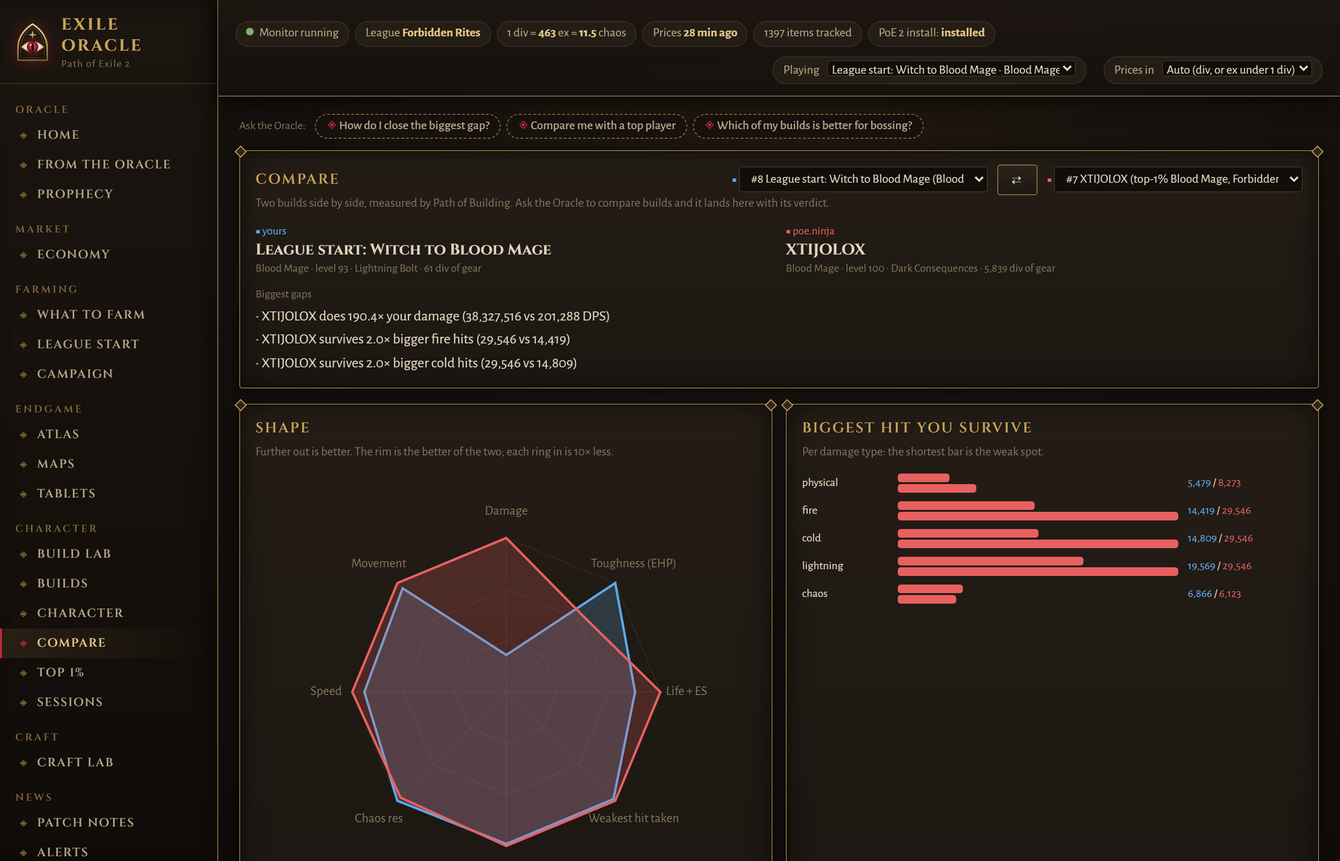
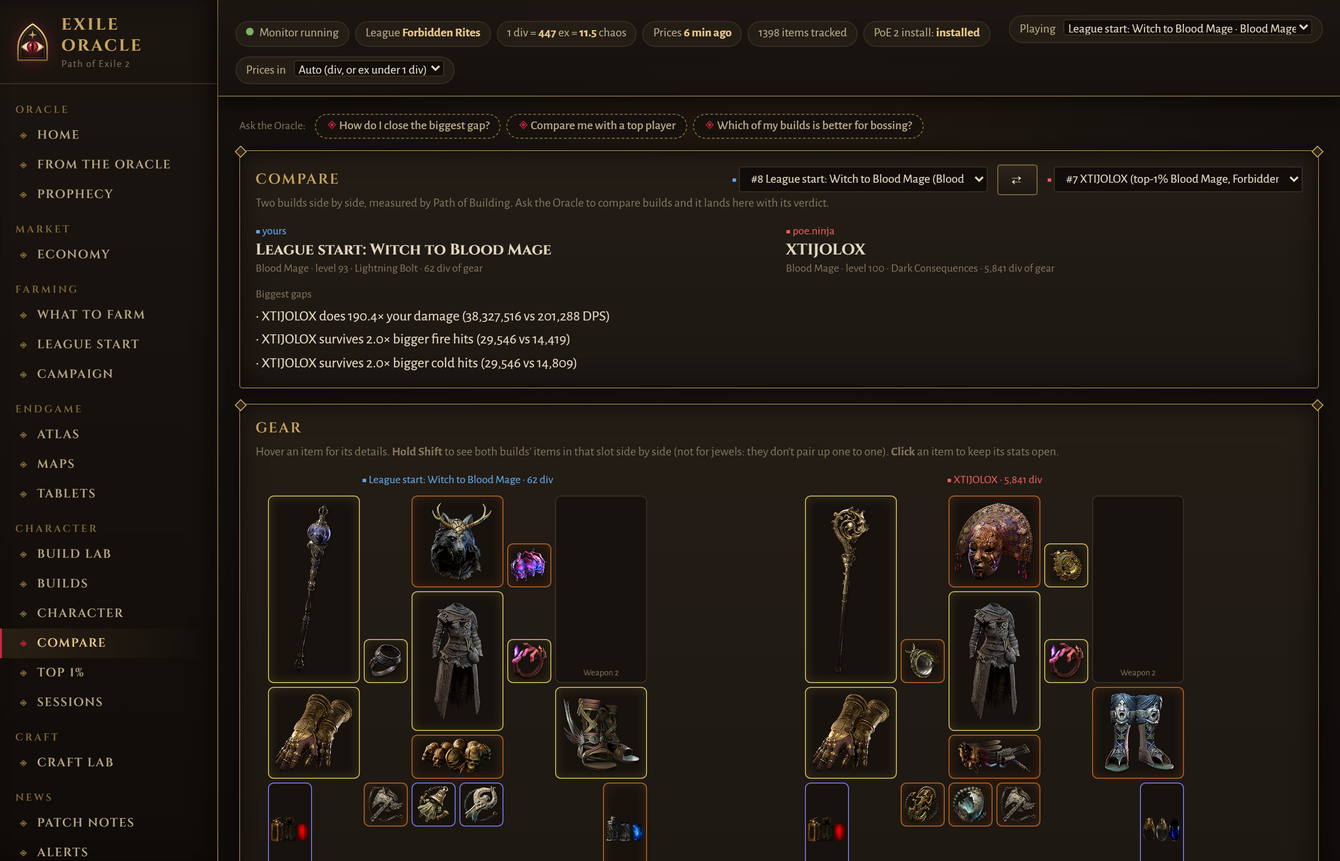
Compare: gear first in the game's equipment layout (hold Shift = both items side by side, click = keep stats open), then skills; Character page Build check (weapon set, main skill, versions, automatic fixes; tune + reset); click to pin item stats

diff --git a/dashboard/index.html b/dashboard/index.html
@@ -386,6 +386,10 @@ input[type=checkbox] { accent-color: var(--eo-blood-hi); }
 .cmpgear .it img { width: 34px; height: 34px; object-fit: contain; }
 .gemtag { display: inline-block; padding: 1px 7px; margin: 2px; border-radius: 3px; background: #241c14; font-size: 12px; }
 .gemtag.only { outline: 1px solid currentColor; }
+.pintip { position: fixed; z-index: 60; max-height: 85vh; overflow-y: auto; filter: drop-shadow(0 6px 18px #000c); }
+.pintip .pinx { position: sticky; top: 0; float: right; margin: 2px 2px -26px 0; z-index: 2; width: 24px; height: 24px; border-radius: 3px;
+  border: 1px solid #8a6f3e; background: #1c1712; color: #e2d6bf; cursor: pointer; font-size: 13px; line-height: 1; }
+.pintip .pinx:hover { border-color: #c8283c; color: #fff; }
 .mmlvl { font: 700 10px var(--eo-display); letter-spacing: .1em; text-transform: uppercase; padding: 1px 7px; border-radius: 999px; border: 1px solid; }
 .mmlvl.deadly { color: #ff7b7b; border-color: #7a2a2a; } .mmlvl.risky { color: #e9c46a; border-color: #6b5a2a; } .mmlvl.fine { color: var(--eo-good); border-color: #3f5f33; }
 #mmtable td { vertical-align: top; } #mmtable .tiers { font-size: 12px; color: var(--eo-muted); }
@@ -631,6 +635,8 @@ table.up td, table.up th { padding: 5px 7px; } table.up .pos { color: var(--eo-g
       <label class="small"><span class="cmpB">■</span> <select class="crin" id="cmpb" style="max-width:260px"></select></label></div>
       <div class="sub">Two builds side by side, measured by Path of Building. Ask the Oracle to compare builds and it lands here with its verdict.</div>
       <div id="cmphead" style="margin-top:10px"></div></div>
+    <div class="card"><h2>Gear</h2><div class="sub">Hover an item for its details. <b>Hold Shift</b> to see both builds' items in that slot side by side (not for jewels: they don't pair up one to one). <b>Click</b> an item to keep its stats open.</div><div id="cmpgear"></div></div>
+    <div class="card"><h2>Skills</h2><div id="cmpskills"></div></div>
     <div class="grid2">
       <div class="card"><h2>Shape</h2><div class="sub">Further out is better. The rim is the better of the two; each ring in is 10× less.</div><div id="cmpradar"></div></div>
       <div class="card"><h2>Biggest hit you survive</h2><div class="sub">Per damage type: the shortest bar is the weak spot.</div><div id="cmphits"></div></div>
@@ -641,8 +647,6 @@ table.up td, table.up th { padding: 5px 7px; } table.up .pos { color: var(--eo-g
       <div class="lab-tree" id="cmptree" style="height:520px"><div class="zbtn"><button data-z="1.4">+</button><button data-z="0.7">−</button><button data-z="fit">⤢</button></div>
         <div class="legend">hover a node for its name · Ctrl + scroll to zoom · drag to move</div></div>
       <div id="cmpkeys" class="small" style="margin-top:8px"></div></div>
-    <div class="card"><h2>Gear, slot by slot</h2><div id="cmpgear"></div></div>
-    <div class="card"><h2>Skills</h2><div id="cmpskills"></div></div>
   </section>
   <section id="top1">
     <div class="card"><h2>Top 1% check</h2><div class="sub">Your character against the top 1% of your ascendancy on poe.ninja: level, damage, toughness and gear value. Benchmarks are read on request (ask the Oracle to refresh them).</div>
@@ -881,9 +885,24 @@ function showTip(e, html) { tip.innerHTML = html; tip.style.display = 'block';
   const z = +document.body.style.zoom || 1;   // the tip lives inside the zoomed body: page pixels / zoom
   const x = Math.min(e.clientX + 14, innerWidth - tip.offsetWidth * z - 8) / z; tip.style.left = x + 'px'; tip.style.top = (e.clientY + 14) / z + 'px'; }
 function hideTip() { tip.style.display = 'none'; }
+// click an item: its stats stay open in a pinned panel until its ✕ is pressed (several can be open at once)
+function pinTip(e, html) {
+  if (!html) return;
+  const z = +document.body.style.zoom || 1, n = document.querySelectorAll('.pintip').length;
+  const p = document.createElement('div');
+  p.className = 'pintip';
+  p.innerHTML = `<button class="pinx" title="Close">✕</button>${html}`;
+  document.body.appendChild(p);
+  const x = Math.min(e.clientX + 14 + n * 18, innerWidth - p.offsetWidth * z - 8) / z;
+  const y = Math.min(e.clientY + 14 + n * 18, innerHeight - p.offsetHeight * z - 8) / z;
+  p.style.left = Math.max(8, x) + 'px'; p.style.top = Math.max(8, y) + 'px';
+  p.querySelector('.pinx').onclick = () => p.remove();
+  hideTip();
+}
 
 // ---------- tabs ----------
 document.querySelectorAll('nav button').forEach(b => b.onclick = () => {
+  document.querySelectorAll('.pintip').forEach(p => p.remove());   // pinned item panels belong to the page they came from
   document.querySelectorAll('nav button').forEach(x => x.classList.toggle('on', x === b));
   document.querySelectorAll('section').forEach(s => s.classList.toggle('on', s.id === b.dataset.tab));
   setTimeout(() => pageAsks(b.dataset.tab));   // after the page's scripts have all loaded
@@ -1447,10 +1466,38 @@ async function loadCompare(a, b) {
   const box = $('#cmptree'); const old = box.querySelector('svg'); if (old) old.remove();
   await drawTree({ tree: { version: r.tree.version, allocated: [...r.tree.both, ...r.tree.only_a, ...r.tree.only_b], jewel_nodes: [], only_a: r.tree.only_a, only_b: r.tree.only_b } }, box);
   $('#cmpkeys').innerHTML = `<b>Keystones:</b> <span class="cmpA">${r.keystones.a.map(esc).join(', ') || 'none'}</span> · <span class="cmpB">${r.keystones.b.map(esc).join(', ') || 'none'}</span>`;
-  const it = (x, diff) => !x ? '<div class="it muted small">empty</div>' : `<div class="it${diff ? ' diff' : ''}">${x.icon ? `<img src="${ic(x.icon, 34)}" alt="">` : `<img src="/artfind?n=${encodeURIComponent(x.name || '')}&b=${encodeURIComponent(x.base || '')}" alt="" onerror="this.remove()">`}
-    <div><div class="small ${RCOL[x.rarity] || ''}"><b>${esc(x.name || x.base || '')}</b></div><div class="small muted">${esc(x.base && x.base !== x.name ? x.base : '')}${x.value_div != null ? ` · ${x.value_div < 1 ? '<1' : Math.round(x.value_div)} div` : ''}</div></div></div>`;
-  $('#cmpgear').innerHTML = `<div class="cmpgear"><div class="small cmpA">${nm(r.a)}</div><div></div><div class="small cmpB">${nm(r.b)}</div>` +
-    r.gear.map(g => `${it(g.a, !g.same)}<div class="small muted" style="text-align:center">${esc(g.slot)}</div>${it(g.b, !g.same)}`).join('') + '</div>';
+  // gear: the Character page's Equipment layout, both builds side by side (hover an item for its details)
+  const ea = invBlock(r.equip.a, 'a'), eb = invBlock(r.equip.b, 'b');
+  const worth = x => x.value_div != null ? ` · ${Math.round(x.value_div).toLocaleString()} div` : '';
+  $('#cmpgear').innerHTML = `<div style="display:flex;flex-wrap:wrap;gap:16px 28px;justify-content:space-around"><div style="flex:0 0 auto"><div class="small cmpA" style="text-align:center">■ ${nm(r.a)}${worth(r.a)}</div>${ea.html}</div>
+    <div style="flex:0 0 auto"><div class="small cmpB" style="text-align:center">■ ${nm(r.b)}${worth(r.b)}</div>${eb.html}</div></div>`;
+  const allItems = Object.assign({}, ea.items, eb.items);
+  // the item in the same slot on the other build (gear only: jewels don't pair up one to one)
+  const pair = key => {
+    const it = allItems[key]; if (!it || !it.slot || key.includes('j')) return null;
+    const other = key[0] === 'a' ? r.equip.b : r.equip.a;
+    const want = it.slot.replace(' Swap', ''), mine = it.slot.endsWith('Swap');
+    return other.gear.find(g => g.slot === it.slot) || other.gear.find(g => g.slot.replace(' Swap', '') === want && g.slot.endsWith('Swap') !== mine) || 'empty';
+  };
+  const cmpTip = (key, shift) => {
+    const it = allItems[key]; if (!it) return '';
+    const p = shift ? pair(key) : null;
+    if (!p) return itemTip(it) + (key.includes('j') || !shift ? (key.includes('j') ? '' : '<div class="small" style="margin-top:4px;text-align:center;background:#0b0908e6;border:1px solid #3a2e22;border-radius:3px;padding:2px 6px;color:#c9a45c">hold Shift to compare</div>') : '');
+    const mineFirst = key[0] === 'a';
+    const col = (x, who, cls) => `<div><div class="small ${cls}" style="text-align:center;margin-bottom:3px">■ ${who}</div>${x === 'empty' ? '<div class="ptip"><div class="hd">empty slot</div></div>' : itemTip(x)}</div>`;
+    const A = col(mineFirst ? it : p, nm(r.a), 'cmpA'), B = col(mineFirst ? p : it, nm(r.b), 'cmpB');
+    return `<div style="display:flex;gap:8px;align-items:flex-start">${A}${B}</div>`;
+  };
+  let hov = null;
+  $('#cmpgear').querySelectorAll('[data-tip]').forEach(el => {
+    el.onmousemove = e => { hov = { e, key: el.dataset.tip }; tip.style.padding = '0'; tip.style.background = 'transparent'; tip.style.border = '0'; showTip(e, cmpTip(el.dataset.tip, e.shiftKey)); };
+    el.onmouseleave = () => { hov = null; hideTip(); tip.style.padding = ''; tip.style.background = ''; tip.style.border = ''; };
+    el.style.cursor = 'pointer';
+    el.onclick = e => { e.stopPropagation(); pinTip(e, cmpTip(el.dataset.tip, e.shiftKey).replace(/<div class="small" style="margin-top:4px;text-align:center;background[^>]*>hold Shift to compare<\/div>/, '')); };
+  });
+  const reshow = e => { if (hov && (e.key === 'Shift')) showTip(hov.e, cmpTip(hov.key, e.type === 'keydown')); };
+  document.removeEventListener('keydown', window._cmpShift || (() => {})); document.removeEventListener('keyup', window._cmpShift || (() => {}));
+  window._cmpShift = reshow; document.addEventListener('keydown', reshow); document.addEventListener('keyup', reshow);
   const onlyA = new Set(r.skills.only_a), onlyB = new Set(r.skills.only_b);
   const col = (list, only, cls) => list.map(g => `<div style="margin:6px 0">${g.skills.map(s => `<span class="gemtag ${only.has(s) ? 'only ' + cls : ''}"><b>${esc(s)}</b></span>`).join('')}
     ${g.supports.map(s => `<span class="gemtag ${only.has(s) ? 'only ' + cls : ''}">${esc(s)}</span>`).join('')}</div>`).join('') || '<div class="muted small">none</div>';
@@ -2031,6 +2078,8 @@ function itemTip(it) {
 }
 function bindTips(root, getHtml) {
   root.querySelectorAll('[data-tip]').forEach(el => {
+    el.style.cursor = 'pointer';
+    el.onclick = e => { e.stopPropagation(); pinTip(e, getHtml(el.dataset.tip)); };
     el.onmousemove = e => { tip.style.padding = '0'; tip.style.background = 'transparent'; tip.style.border = '0'; showTip(e, getHtml(el.dataset.tip)); };
     el.onmouseleave = () => { hideTip(); tip.style.padding = ''; tip.style.background = ''; tip.style.border = ''; };
   });
@@ -2039,6 +2088,41 @@ const INV = { 'Weapon 1': [1, 1, 2, 4], 'Helmet': [4, 1, 2, 2], 'Weapon 2': [7, 
   'Body Armour': [4, 3, 2, 3], 'Ring 1': [3, 4, 1, 1], 'Ring 2': [6, 4, 1, 1], 'Gloves': [1, 5, 2, 2],
   'Belt': [4, 6, 2, 1], 'Boots': [7, 5, 2, 2], 'Charm 1': [3, 7, 1, 1], 'Charm 2': [4, 7, 1, 1], 'Charm 3': [5, 7, 1, 1],
   'Flask 1': [1, 7, 1, 2], 'Flask 2': [8, 7, 1, 2] };
+// the Equipment layout (also used twice on the Compare page). pre = a key prefix so two can share one page.
+function invBlock(c, pre) {
+  pre = pre || '';
+  const items = {}; c.gear.forEach((g, i) => items[pre + 'g' + i] = g); (c.jewels || []).forEach((j, i) => items[pre + 'j' + i] = j);
+  const bySlot = {}; c.gear.forEach((g, i) => bySlot[g.slot] = pre + 'g' + i);
+  const cell = (key, it, label) => `<div class="slot ${it ? RCOL[it.rarity] : ''}" ${it ? `data-tip="${key}"` : ''}>${it && it.art ? `<img src="${artSrc(it.art)}" alt="${esc(it.name)}">` : ''}${!it ? `<span class="lbl">${esc(label)}</span>` : ''}</div>`;
+  const swap = c.gear.filter(g => g.slot.endsWith('Swap'));
+  const wset = (!bySlot['Weapon 1'] && !bySlot['Weapon 2'] && swap.length) ? 2 : 1;
+  const inv = Object.entries(INV).map(([slot, [cx, cy, w, h]]) => {
+    const weapon = /^Weapon [12]$/.test(slot);
+    const key = weapon && wset === 2 ? bySlot[slot + ' Swap'] : bySlot[slot]; const it = key ? items[key] : null;
+    return `<div style="grid-column:${cx} / span ${w};grid-row:${cy} / span ${h};display:grid;position:relative">${cell(key, it, slot)}${weapon && wset === 2 && it ? '<span class="pill" style="position:absolute;left:4px;bottom:4px;font-size:10px">set II</span>' : ''}</div>`;
+  }).join('');
+  const jew = (c.jewels || []).map((j, i) => cell(pre + 'j' + i, j, 'Jewel')).join('');
+  return { items, html: `<div class="inv">${inv}</div>${jew ? `<div class="small muted" style="text-align:center;margin-top:6px">Jewels</div><div class="jrow">${jew}</div>` : ''}` };
+}
+// "Build check" on the Character page: how Path of Building measures this build, and changing it
+async function loadBuildCheck(c, box) {
+  const s = await get('/api/buildcheck?id=' + c.id), body = box.querySelector('.bcbody');
+  const groups = (c.skills || []).filter(g => g.gems && g.gems.some(x => !x.support));
+  const gname = g => esc(g.gems.filter(x => !x.support).map(x => x.name).join(' + '));
+  const setTxt = n => (n === 1 ? s.set1 : s.set2) ? 'has weapons' : 'empty';
+  const fixed = (c.warnings || []).filter(w => w.startsWith('Fixed automatically'));
+  body.innerHTML = `<div style="display:grid;grid-template-columns:auto 1fr;gap:6px 12px;align-items:center">
+    <span class="muted">Weapon set</span><span><select class="crin" id="bcws"><option value="0">automatic${fixed.length ? ' (set II: set I is empty)' : ''}</option><option value="1">I (${setTxt(1)})</option><option value="2">II (${setTxt(2)})</option></select></span>
+    <span class="muted">Main skill</span><span><select class="crin" id="bcmg">${groups.map(g => `<option value="${g.index}"${g.index === c.main_group ? ' selected' : ''}>${gname(g)}${g.dps ? ' · ' + g.dps.toLocaleString() + ' DPS' : ''}</option>`).join('')}</select></span>
+    <span class="muted">Measured by</span><span>Path of Building ${esc(s.pob_version || '?')} · tree ${esc(c.tree && c.tree.version || '?')}</span>
+    <span class="muted">Status</span><span>${s.tuned ? '<b style="color:var(--eo-gold)">changed by you</b> <button class="btn" id="bcreset" style="padding:1px 8px;font-size:11px">Reset to as imported</button>' : 'as imported'}${fixed.length ? ' · ' + fixed.length + ' automatic fix' : ''}</span></div>
+    <div class="muted" style="margin-top:6px">Changes are saved with the build and used everywhere (Build Lab, Compare, Top 1%). Still wrong? Ask the Oracle: "check why my numbers look off".</div>`;
+  const remeasure = async payload => { body.innerHTML = '<span class="spin"></span> Path of Building is measuring again…'; await post(payload ? '/api/buildcheck/tune' : '/api/buildcheck/reset', Object.assign({ id: c.id }, payload || {})); const fresh = await get('/api/character?id=' + c.id); fresh._openCheck = true; renderCharacter(fresh, CHAR_LAST.el); };
+  if (s.tune && s.tune.weapon_set) body.querySelector('#bcws').value = s.tune.weapon_set;
+  body.querySelector('#bcws').onchange = e => remeasure({ weapon_set: +e.target.value });
+  body.querySelector('#bcmg').onchange = e => remeasure({ main_group: +e.target.value });
+  const rb = body.querySelector('#bcreset'); if (rb) rb.onclick = () => remeasure(null);
+}
 let CHAR_LAST = null;
 document.addEventListener('click', e => {   // weapon set I / II toggle on the Character page
   const b = e.target.closest('[data-wset]'); if (!b || !CHAR_LAST) return;
@@ -2071,7 +2155,8 @@ function renderCharacter(c, el) {
     <div class="card"><div class="char-head"><h2>${esc(c.label)}</h2><span class="muted">Level ${esc(c.level)} ${esc(c.ascendancy || c.class)}</span>
       <span class="pill">${esc(c.league || '')}</span><span class="pill">${esc(c.owner)}</span>
       <span class="muted">Main skill <b style="color:var(--text-primary)">${esc(c.main_skill)}</b> · ${c.dps.toLocaleString()} DPS</span></div>
-      ${(c.warnings || []).map(w => w.startsWith('Fixed automatically') ? `<div class="small" style="color:var(--eo-good)">✔ ${esc(w)}</div>` : `<div class="small" style="color:var(--warning)">⚠ ${esc(w)}</div>`).join('')}</div>
+      ${(c.warnings || []).map(w => w.startsWith('Fixed automatically') ? `<div class="small" style="color:var(--eo-good)">✔ ${esc(w)}</div>` : `<div class="small" style="color:var(--warning)">⚠ ${esc(w)}</div>`).join('')}
+      <details class="bcheck" style="margin-top:8px"${c._openCheck ? ' open' : ''}><summary class="small"><b>Build check</b> <span class="muted">(numbers look wrong? see how this build is measured and fix it)</span></summary><div class="bcbody small" style="margin-top:6px">loading…</div></details></div>
     <div class="char-grid">
       <div>
         <div class="card"><h2>Equipment</h2><div class="inv">${inv}</div>
@@ -2094,6 +2179,7 @@ function renderCharacter(c, el) {
       </div>
     </div>`;
   bindTips(el, key => itemTip(items[key]));
+  const bc = el.querySelector('.bcheck'); if (bc) { bc.ontoggle = () => { if (bc.open) loadBuildCheck(c, bc); }; if (bc.open) loadBuildCheck(c, bc); }
   drawTree(c, document.getElementById('treebox'));
 }
 function valueCard(c) {

diff --git a/poe2kit/vault.py b/poe2kit/vault.py
@@ -212,7 +212,7 @@ def delete(con, build_id):
     if not row:
         return {'ok': False, 'why': 'No such build.'}
     con.execute('DELETE FROM build WHERE id=?', (bid,))
-    for k in (f'lab:cards:{bid}', f'planner:{bid}'):
+    for k in (f'lab:cards:{bid}', f'planner:{bid}', f'tune:{bid}', f'tune:orig:{bid}'):
         con.execute('DELETE FROM kv WHERE k=?', (k,))
     con.execute('DELETE FROM kv WHERE k LIKE ?', (f'lab:curves:{bid}:%',))
     con.commit()
@@ -220,3 +220,70 @@ def delete(con, build_id):
     if str(s.get('active_build') or '') == str(bid):
         config.save_settings({'active_build': None})
     return {'ok': True, 'deleted': bid, 'label': row['label']}
+
+
+# ---------------- build check: how a build is measured, and fixing it (the author, 2026-11-21) ----------------
+
+def check(con, build_id):
+    """What Path of Building is told about this build: weapon sets, which one is used, the main skill, and whether it
+    was tuned. (The measured numbers and warnings come from the Character page itself.)"""
+    r = con.execute('SELECT pob_code FROM build WHERE id=?', (int(build_id),)).fetchone()
+    if not r:
+        return {'ok': False, 'why': 'No such build.'}
+    xml = decode(r['pob_code'])
+
+    def item(slot):
+        m = re.search(r'<Slot [^>]*itemId="(\d+)"[^>]*name="%s"' % re.escape(slot), xml)
+        return bool(m and m.group(1) != '0')
+    root = ET.fromstring(xml)
+    b = root.find('Build')
+    items = root.find('Items')
+    use2 = (items.get('useSecondWeaponSet') if items is not None else None) == 'true'
+    orig = db.kv_get(con, f'tune:orig:{int(build_id)}')
+    return {'ok': True, 'set1': item('Weapon 1') or item('Weapon 2'), 'set2': item('Weapon 1 Swap') or item('Weapon 2 Swap'),
+            'uses_set': 2 if use2 else 1, 'main_group': int(b.get('mainSocketGroup') or 1) if b is not None else 1,
+            'tuned': bool(orig), 'tune': json.loads(db.kv_get(con, f'tune:{int(build_id)}') or '{}')}
+
+
+def tune(con, build_id, weapon_set=None, main_group=None):
+    """Change how a build is measured: weapon set 1 / 2 (None = leave it to the auto-fixes) and the main skill group.
+    The build as it was imported is kept, so reset() brings it back."""
+    bid = int(build_id)
+    r = con.execute('SELECT pob_code FROM build WHERE id=?', (bid,)).fetchone()
+    if not r:
+        return {'ok': False, 'why': 'No such build.'}
+    if not db.kv_get(con, f'tune:orig:{bid}'):
+        db.kv_set(con, f'tune:orig:{bid}', r['pob_code'])
+    xml = decode(db.kv_get(con, f'tune:orig:{bid}'))
+    cur = json.loads(db.kv_get(con, f'tune:{bid}') or '{}')
+    if weapon_set is not None:
+        cur['weapon_set'] = int(weapon_set) if int(weapon_set) in (1, 2) else None
+    if main_group is not None:
+        cur['main_group'] = int(main_group) if int(main_group) > 0 else None
+    ws, mg = cur.get('weapon_set'), cur.get('main_group')
+    if ws:
+        val = 'true' if ws == 2 else 'nil'
+        xml = re.sub(r'(<(?:Items|ItemSet) [^>]*?)useSecondWeaponSet="[^"]*"', r'\1useSecondWeaponSet="%s"' % val, xml)
+        if 'useSecondWeaponSet=' not in xml:
+            xml = xml.replace('<Items ', f'<Items useSecondWeaponSet="{val}" ', 1)
+    if mg:
+        xml = re.sub(r'(<Build [^>]*?)mainSocketGroup="\d+"', r'\g<1>mainSocketGroup="%d"' % mg, xml, count=1)
+    code = encode(xml)
+    s = summarize(xml)
+    con.execute('UPDATE build SET pob_code=?, main_skill=? WHERE id=?', (code, s.get('main_skill'), bid))
+    db.kv_set(con, f'tune:{bid}', json.dumps(cur))
+    con.commit()
+    return dict(check(con, bid), main_skill=s.get('main_skill'))
+
+
+def reset(con, build_id):
+    """Back to the build exactly as it was imported."""
+    bid = int(build_id)
+    orig = db.kv_get(con, f'tune:orig:{bid}')
+    if not orig:
+        return check(con, bid)
+    s = summarize(decode(orig))
+    con.execute('UPDATE build SET pob_code=?, main_skill=? WHERE id=?', (orig, s.get('main_skill'), bid))
+    con.execute('DELETE FROM kv WHERE k IN (?, ?)', (f'tune:orig:{bid}', f'tune:{bid}'))
+    con.commit()
+    return check(con, bid)

diff --git a/smoke_test.py b/smoke_test.py
@@ -347,6 +347,29 @@ def weaponset_check():
           'empty weapon set I: measured with set II')
 
 
+def buildcheck_check():
+    """Build check: tune the weapon set and main skill (saved with the build), then reset to as imported."""
+    from poe2kit import vault, db
+    xml = ('<PathOfBuilding2><Build level="90" className="Witch" ascendClassName="Blood Mage" mainSocketGroup="1"></Build>'
+           '<Items activeItemSet="1" useSecondWeaponSet="nil"><ItemSet id="1" useSecondWeaponSet="nil">'
+           '<Slot itemId="0" name="Weapon 1"/><Slot itemId="7" name="Weapon 1 Swap"/></ItemSet></Items>'
+           '<Skills><SkillSet id="1"><Skill enabled="true"><Gem nameSpec="Comet" enabled="true"/></Skill>'
+           '<Skill enabled="true"><Gem nameSpec="Frost Wall" enabled="true"/></Skill></SkillSet></Skills><Tree></Tree></PathOfBuilding2>')
+    con = db.connect()
+    bid = vault.from_paste(con, vault.encode(xml), 'Check test')['id']
+    before = con.execute('SELECT pob_code FROM build WHERE id=?', (bid,)).fetchone()[0]
+    c0 = vault.check(con, bid)
+    c1 = vault.tune(con, bid, weapon_set=2, main_group=2)
+    tuned = vault.decode(con.execute('SELECT pob_code FROM build WHERE id=?', (bid,)).fetchone()[0])
+    c2 = vault.reset(con, bid)
+    after = con.execute('SELECT pob_code FROM build WHERE id=?', (bid,)).fetchone()[0]
+    vault.delete(con, bid)
+    con.close()
+    check(not c0['set1'] and c0['set2'] and c1['tuned'] and c1['uses_set'] == 2 and c1['main_group'] == 2
+          and 'mainSocketGroup="2"' in tuned and not c2['tuned'] and after == before,
+          'Build check: tune weapon set + main skill, reset to as imported')
+
+
 def campaign_check():
     """R16 / R21: the rush route maps onto the game's zones, and a zone gives a route card."""
     from poe2kit import campaign
@@ -457,6 +480,7 @@ if __name__ == '__main__':
     patchwatch_check()
     vault_paste_check()
     weaponset_check()
+    buildcheck_check()
     mcp()
     if '--pob' in sys.argv:
         pob_part()

diff --git a/monitor.py b/monitor.py
@@ -412,6 +412,9 @@ def api(path, q):
             if not a or not b:
                 return {'error': 'Save two builds in the vault to compare them (Builds page: paste a build).'}
             return compare.compare_view(con, a, int(b))
+        if path == '/api/buildcheck':   # Character page: how this build is measured
+            from poe2kit import vault, pob
+            return dict(vault.check(con, int(q.get('id') or 0)), pob_version=pob.version())
         if path == '/api/campaign':   # R16: campaign rush guide + checklist + where you are now
             from poe2kit import campaign
             return campaign.guide(con)
@@ -779,6 +782,14 @@ class Handler(http.server.BaseHTTPRequestHandler):
                     c.execute('DELETE FROM alert WHERE seen=1')
                     c.commit()
                     data = {'ok': True}
+                finally:
+                    c.close()
+            elif u.path in ('/api/buildcheck/tune', '/api/buildcheck/reset'):   # fix how a build is measured
+                from poe2kit import vault, db as _db
+                c = _db.connect()
+                try:
+                    data = vault.tune(c, body.get('id'), body.get('weapon_set'), body.get('main_group')) \
+                        if u.path.endswith('tune') else vault.reset(c, body.get('id'))
                 finally:
                     c.close()
             elif u.path in ('/api/vault/paste', '/api/vault/delete'):   # Builds page: paste a build / delete one

diff --git a/poe2kit/pob.py b/poe2kit/pob.py
@@ -124,6 +124,7 @@ def filled_weapon_set(xml_text):
 # (the note shows with the build's warnings). Add new ones here as they are found; each is
 # fix(xml) -> (xml, note or None), and must leave a correct build unchanged.
 AUTOFIXES = [filled_weapon_set]
+AUTOFIX_VERSION = 'af2'   # bump when a fix or its note changes: cached results are measured again
 
 
 def autofix(xml_text):
@@ -142,7 +143,7 @@ def calc(xml_text, use_cache=True, timeout=300, main_group=None):
     xml_text, fixnotes = autofix(xml_text)
     with open(SCRIPT, 'rb') as f:
         script = hashlib.sha1(f.read()).hexdigest()
-    key = hashlib.sha1((version() + script + str(main_group) + xml_text).encode('utf-8')).hexdigest()
+    key = hashlib.sha1((version() + script + str(main_group) + AUTOFIX_VERSION + xml_text).encode('utf-8')).hexdigest()
     os.makedirs(CACHE, exist_ok=True)
     cpath = os.path.join(CACHE, key + '.json')
     if use_cache and os.path.exists(cpath):

diff --git a/poe2kit/compare.py b/poe2kit/compare.py
@@ -144,6 +144,8 @@ def compare_view(con, a_id, b_id):
                      'only_a': sorted(ta - tb), 'only_b': sorted(tb - ta), 'both': sorted(ta & tb)},
             'keystones': {'a': [k['name'] for k in ca.get('keystones') or []], 'b': [k['name'] for k in cb.get('keystones') or []]},
             'gear': _gear(ca, cb),
+            'equip': {'a': {'gear': ca.get('gear') or [], 'jewels': ca.get('jewels') or []},
+                      'b': {'gear': cb.get('gear') or [], 'jewels': cb.get('jewels') or []}},
             'skills': {'a': sk_a, 'b': sk_b, 'only_a': sorted(names_a - names_b), 'only_b': sorted(names_b - names_a)},
             'pushed': pushed(con) if pushed(con).get('a') == int(a_id) and pushed(con).get('b') == int(b_id) else None}
 

diff --git a/README.md b/README.md
@@ -165,6 +165,10 @@ poe.ninja link) and it's read and added; poe.ninja links open that character's p
 Each row has **View build** (opens it on the Character page) and **Delete** (asks first).
 
 ### Character
+Gear (click an item to keep its stats open), skills, the passive tree and what the build is worth. **Build check**
+shows how Path of Building measured it (weapon set, main skill, versions, automatic fixes) and lets you change the
+weapon set or main skill when the numbers look wrong; "Reset to as imported" undoes it.
+
 Gear, skills and real DPS from Path of Building.
 
 ![Character](docs/screenshots/character.jpg)
@@ -175,7 +179,9 @@ Your tree, and every item priced (rares estimated from craft cost).
 ![Passive tree + build value](docs/screenshots/passive-tree.jpg)
 
 ### Compare
-Any two builds side by side, visually: a shape chart (damage, toughness, life, resistances, speed), stat bars with the
+Any two builds side by side, visually: both builds' gear in the game's equipment layout (hover an item, **hold Shift**
+to see both builds' items in that slot side by side, **click** to keep its stats open), skills, a shape chart (damage,
+toughness, life, resistances, speed), stat bars with the
 difference, the biggest hit each survives per damage type, the two passive trees on one tree (blue: only yours, red:
 only theirs, gold: both), gear slot by slot and skills. Ask the Oracle to compare builds and it lands here with its
 verdict.

diff --git a/TROUBLESHOOTING.md b/TROUBLESHOOTING.md
@@ -131,7 +131,7 @@ by itself.
 ## Damage looks far too low
 | Problem | Check | Fix |
 |---|---|---|
-| A build's DPS is much lower than in game | Character page: "Weapon set I is empty" warning? | fixed since 0.6.x: weapons only in set II are measured with set II. Re-open the page (Path of Building measures again) |
+| A build's DPS is much lower than in game | Character page → **Build check**: weapon set, main skill | weapons only in set II are fixed automatically; otherwise pick the right weapon set / main skill there (saved with the build; "Reset to as imported" undoes it) |
 | Gem level lower than in game | the skill's level in game includes "+ levels" from gear | the gem shows its own level; gear levels are counted in the DPS |
 
 ## Build Vault: paste / delete
